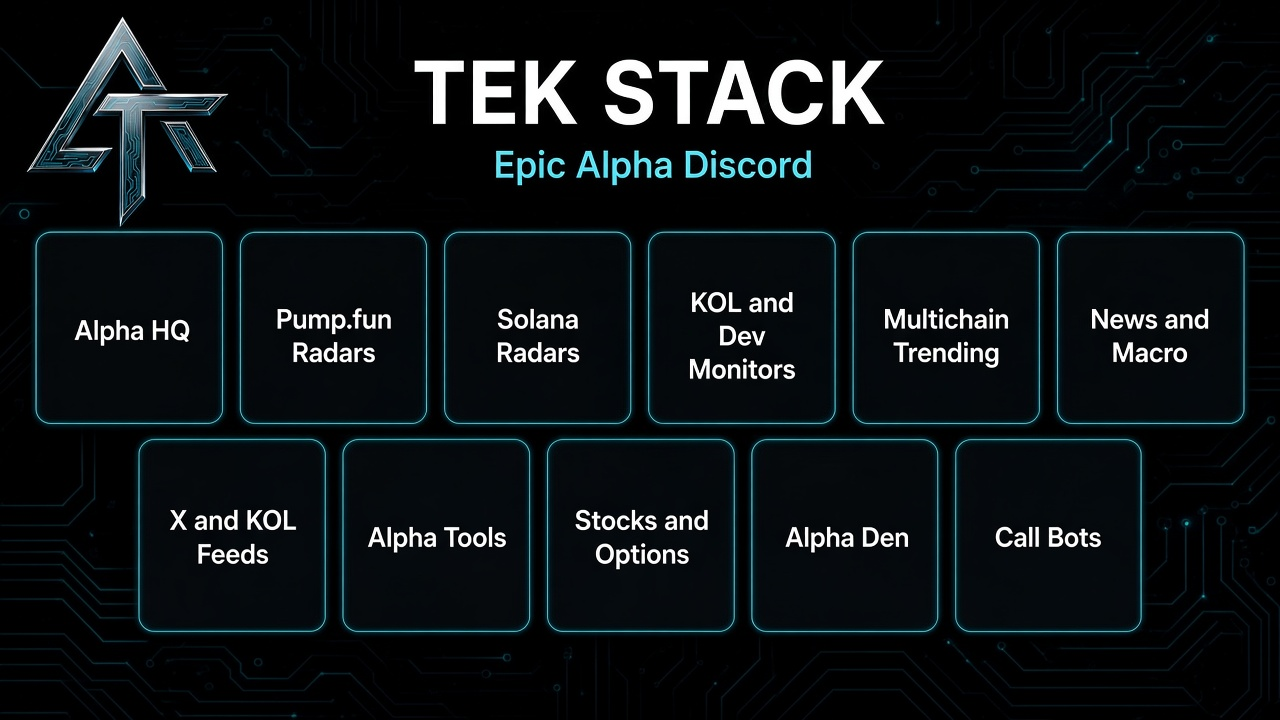
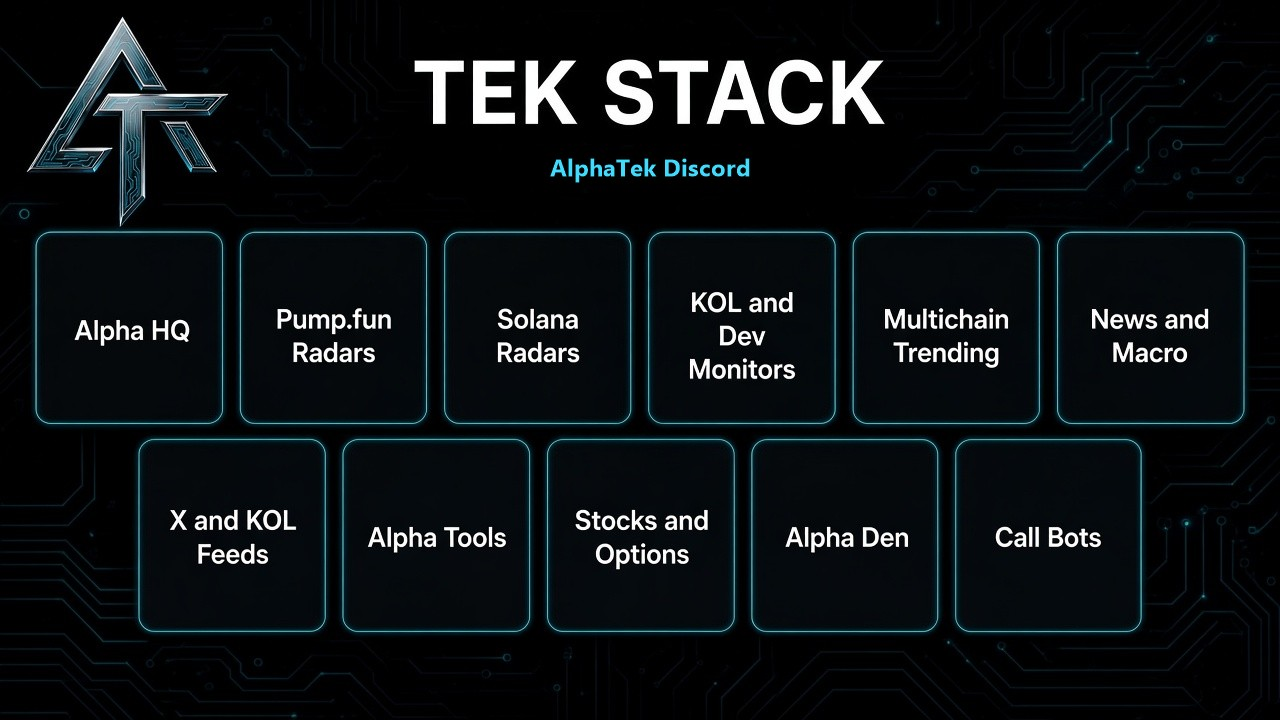
docs: rename the Discord page title to AlphaTek Discord

Changed region(s): [[0.375, 0.1833, 0.6562, 0.275]]

diff --git a/README.md b/README.md
@@ -1,5 +1,5 @@
 <!--
-  PUBLIC product footprint. Epic Alpha / Alpha Tek Discord.
+  PUBLIC product footprint. AlphaTek Discord.
   Channels and command families only. No bot source, keys, or worker maps.
 -->
 
@@ -11,7 +11,7 @@
 
 <div align="center">
 
-  <h1>Epic Alpha Discord</h1>
+  <h1>AlphaTek Discord</h1>
 
   <p>
     <strong>The Alpha Tek community and command stack.</strong><br />
@@ -26,7 +26,7 @@
 
   <p>
     <a href="https://discord.gg/sPW3tJk">
-      <img src="https://img.shields.io/badge/Join-Epic%20Alpha-5865F2?style=for-the-badge&labelColor=0A0A0A&logo=discord&logoColor=white" alt="Join Discord" />
+      <img src="https://img.shields.io/badge/Join-AlphaTek%20Discord-5865F2?style=for-the-badge&labelColor=0A0A0A&logo=discord&logoColor=white" alt="Join AlphaTek Discord" />
     </a>
     &nbsp;
     <a href="https://www.alphatek.app">
@@ -57,7 +57,7 @@
 
 ## What This Repo Is
 
-Public product map for the Epic Alpha Discord server and the Alpha Tek command and channel family.
+Public product map for the AlphaTek Discord server and the Alpha Tek command and channel family.
 
 <table>
   <thead>
@@ -267,7 +267,7 @@ This is replication cost: years of channel design, feed tuning, and operational 
 ## How Discord Connects
 
 ```text
-Epic Alpha Discord
+AlphaTek Discord
    |  community, feeds, and commands
    |  Guard language shared with the portal and Trench
    |  calls and receipts
@@ -364,7 +364,7 @@ Then pick a chain room, open a radar, read the pins, ask in HQ, and open [AlphaT
 </p>
 
 <sub>
-  Epic Alpha Discord · Alpha Tek community and command stack · Bot source private<br />
+  AlphaTek Discord · Alpha Tek community and command stack · Bot source private<br />
   Built with passion since BTC 2012 · Tampa · Core private · Public story by design
 </sub>
 
